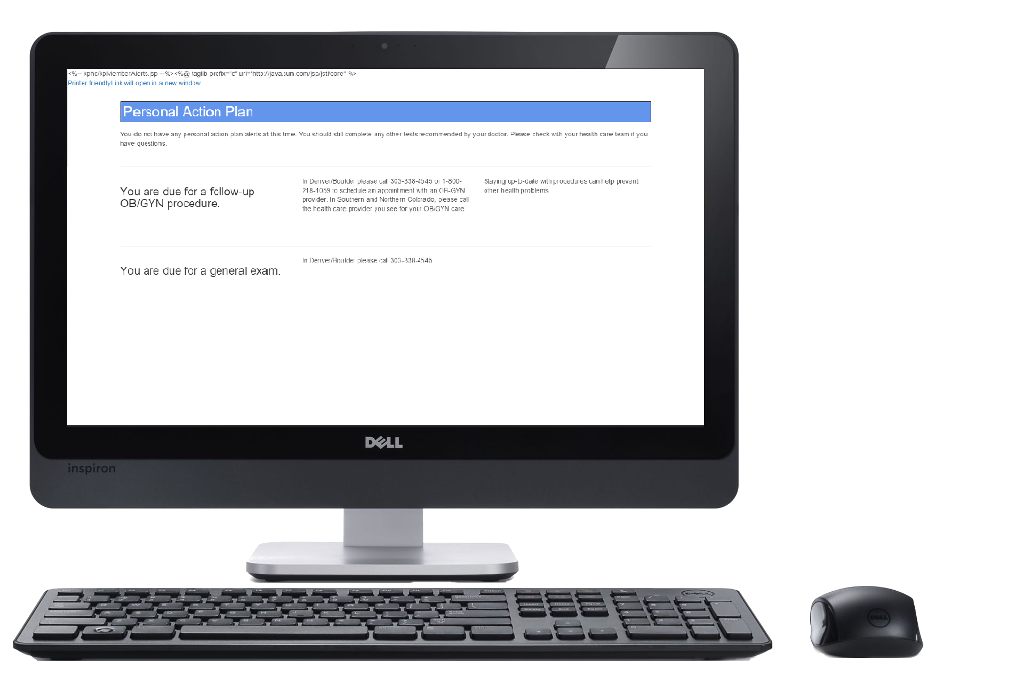
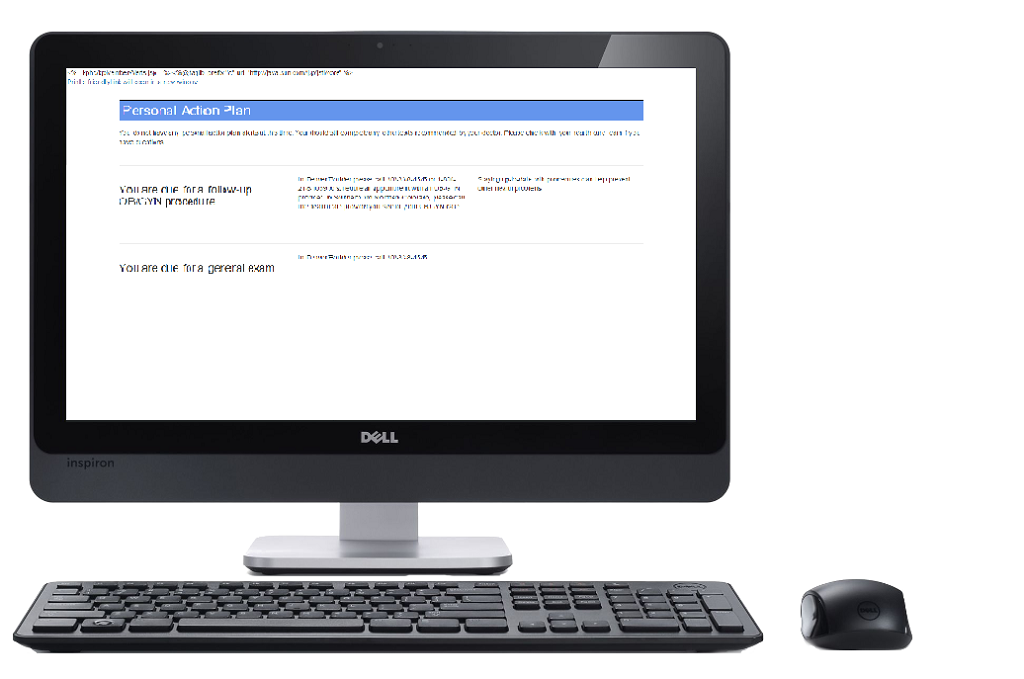
Created cupcrave portfolio page
created cc portfolio page with device images

diff --git a/ccPortfolio.html b/ccPortfolio.html
@@ -52,17 +52,17 @@
             <div class='container well well-lg'>
                 <div class='row'>
                     <div class='col-xs-12 col-sm-12 col-md-12'>
-                        <h2 class='indexTitle row text-center'>Kaiser Permanente</h2> 
+                        <h2 class='indexTitle row text-center'>CupCrave Cupcakes</h2> 
                         <hr>
                     </div>
                     <div class='row'>
-                        <img class='col-xs-12 col-sm-7 col-sm-offset-1 col-md-7 col-md-offset-1' src='./images/kpdesktop.png'>
-                        <img class='col-xs-5 col-sm-3 col-md-2 mobileImage' src='./images/kpmobile.png'> 
+                        <img class='col-xs-12 col-sm-7 col-sm-offset-1 col-md-7 col-md-offset-1 desktopImage' src='./images/ccdesktop.png'>
+                        <img class='col-xs-5 col-sm-3 col-md-2 mobileImage' src='./images/ccMobile.png'> 
                         <p class='col-xs-6 col-sm-5 col-md-2 mobileDescrip'>CSS media queries for mobile-responsive elements and text/image-resizing across all visual breakpoints.</p><img class='arrow' src='./images/arrow%202.png'>
                     </div>
                     <br>
                     <div class='row'>
-                        <img class='col-xs-8 col-xs-offset-1 col-sm-4 col-sm-offset-1 col-md-4 col-md-offset-2 tabletImage' src='./images/kpTablet.png'>
+                        <img class='col-xs-8 col-xs-offset-1 col-sm-4 col-sm-offset-1 col-md-4 col-md-offset-2 tabletImage' src='./images/ccTablet.png'>
                         <h2 class='contentDescrip col-xs-12 col-sm-6 col-md-6 col-lg-4'>
                         <li>Assisted client in migrating non-responsive web page to responsive.</li>
                         <br>

diff --git a/seasidePortfolio.html b/seasidePortfolio.html
@@ -36,7 +36,7 @@
                               <ul class="dropdown-menu">
                                 <li><a href="./kaiserPortfolio.html">Kaiser Permanente</a></li>
                                 <li><a href="./seasidePortfolio.html">Seaside Getaway</a></li>
-                                <li><a href="#">CupCrave</a></li>
+                                <li><a href="./ccPortfolio.html">CupCrave</a></li>
                               </ul>
                             </li>
                         </ul>
